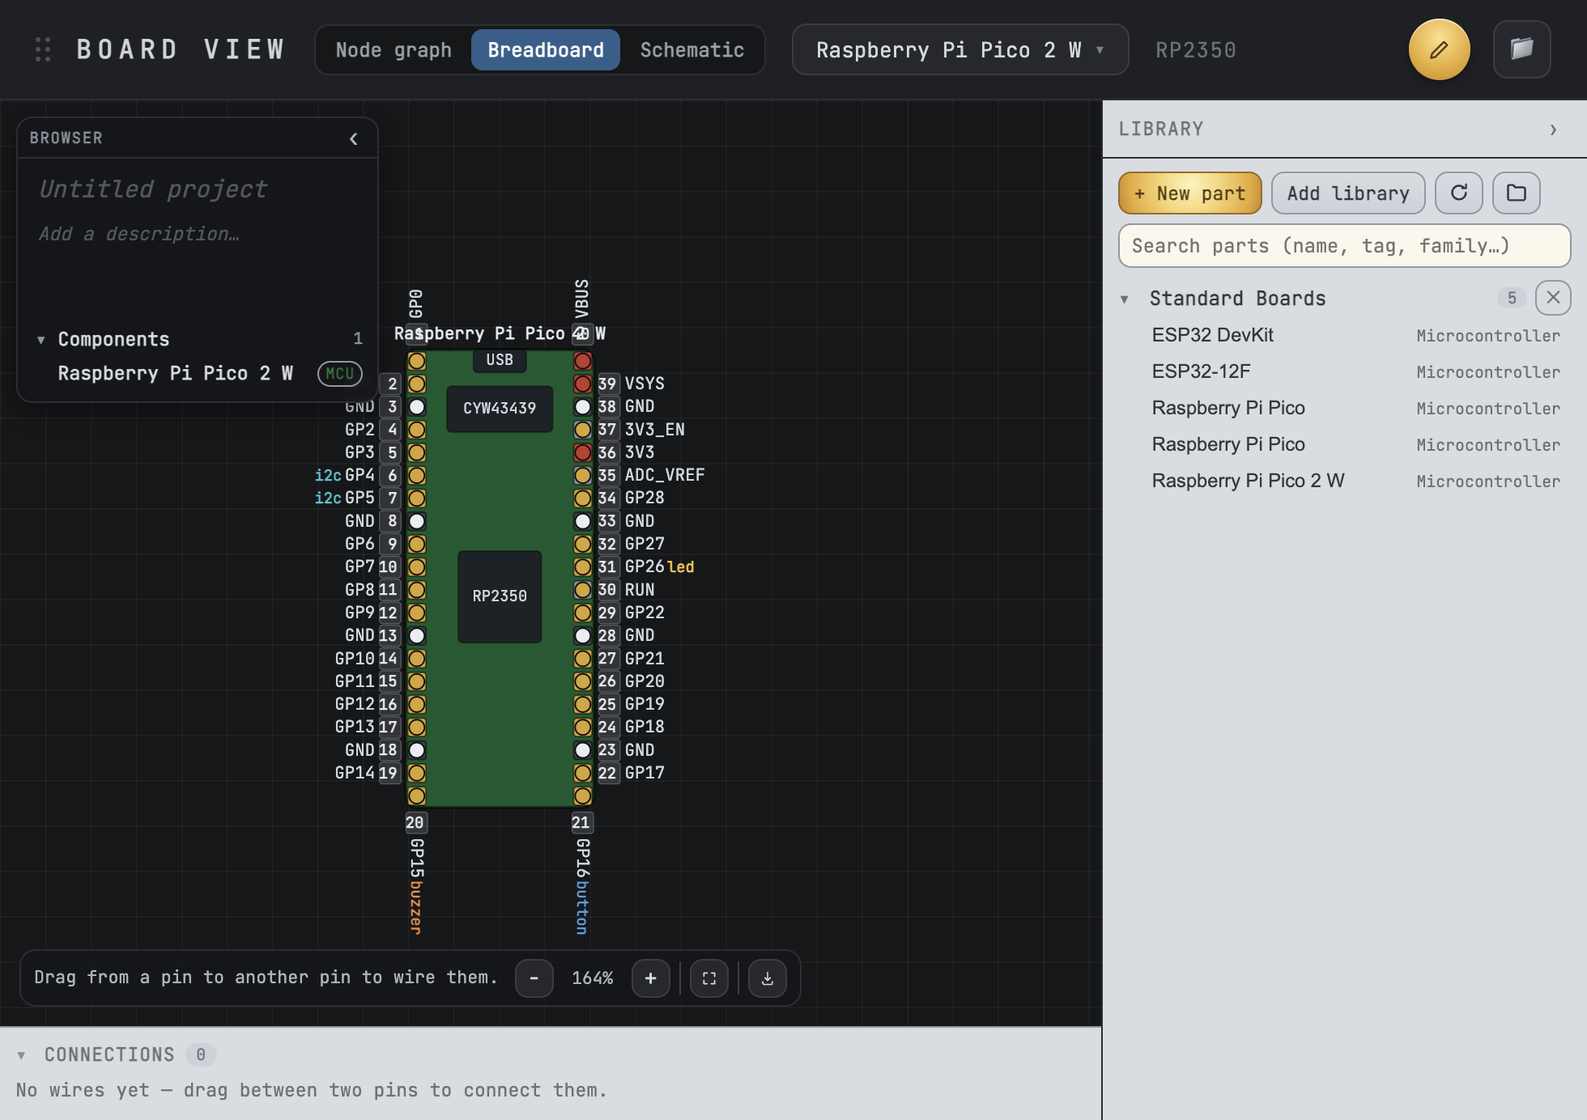
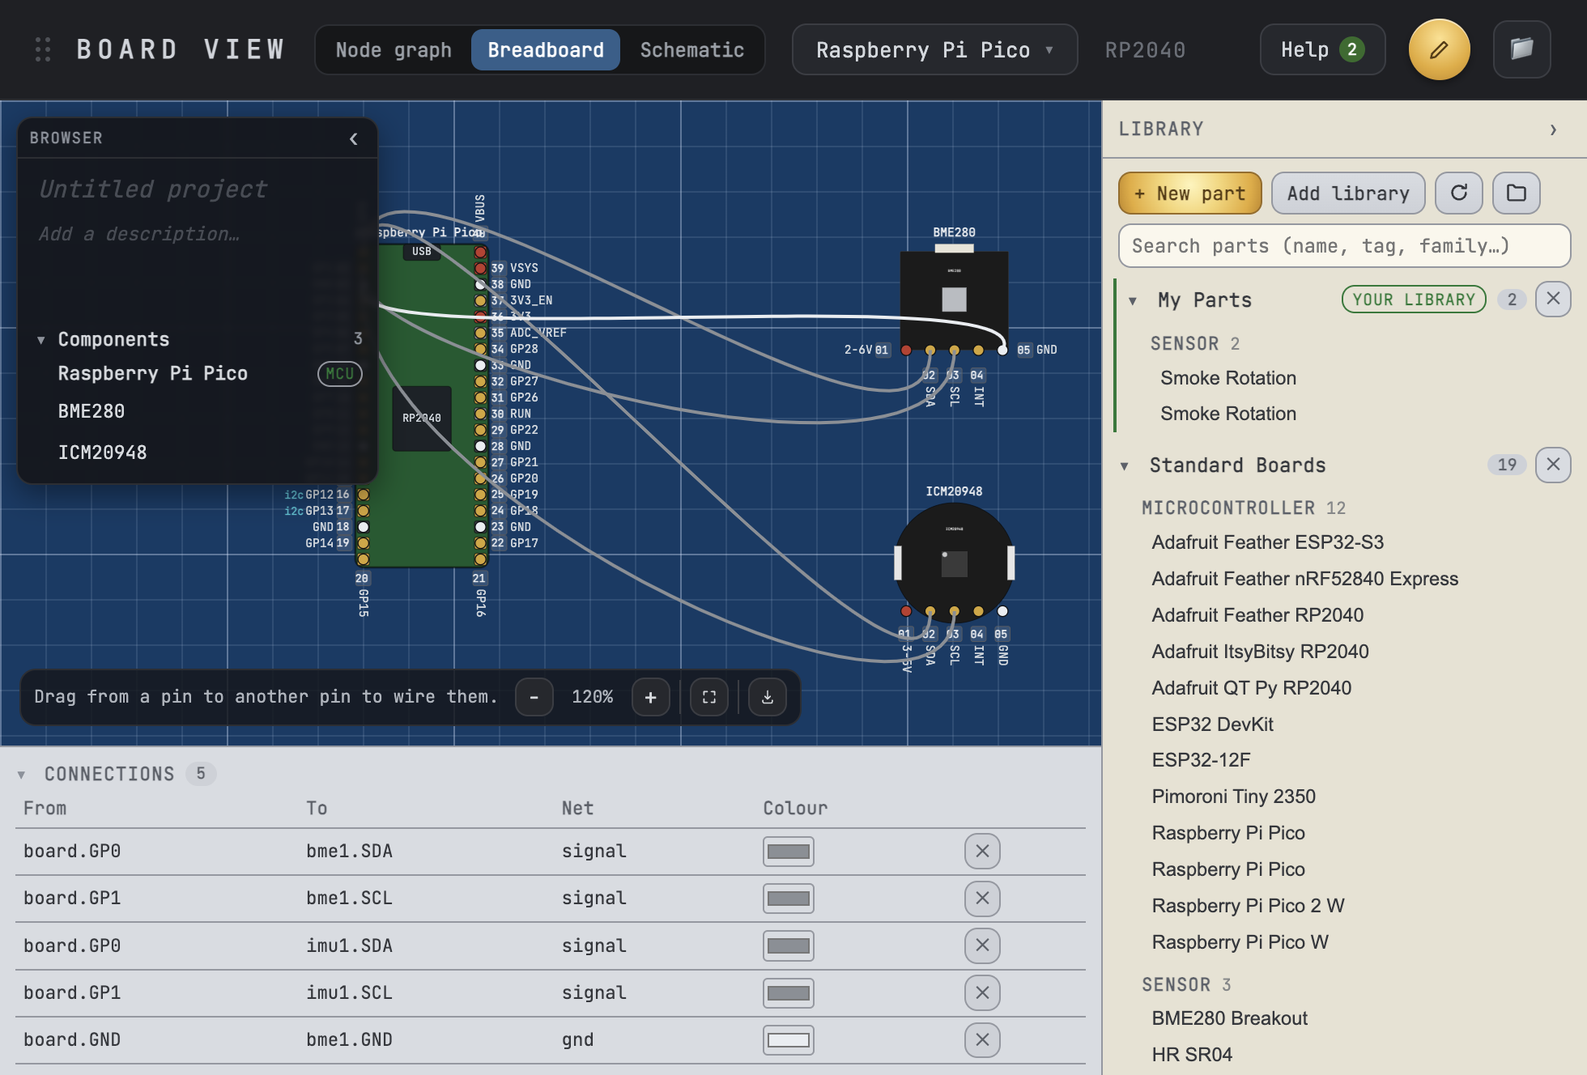
Refresh landing + features for v0.22
Bring snakie.org in line with the latest app:

- New screenshots: hero editor (BME280 + inst.watch program), a blueprint
  Board View with the new BME280/ICM20948 sensor parts wired up, and two
  fresh instrument cards — the antique Barometer and the IMU with its
  magnetometer compass (renamed multimeter.jpg/plotter.jpg → barometer.jpg/
  imu.jpg).
- Instruments section: showcase Oscilloscope + Barometer + IMU/Compass, and
  the watch()-a-sensor auto-detect story; code snippet updated to env()/watch().
- Board View section: drag-to-breadboard, breadboard/schematic/node-graph
  views (dark/light/blueprint), one-click driver install.
- Features page: barometer, IMU compass, interactive+animated I²C scanner,
  auto-detected instruments, pop-out panels, breadboard themes, schematic
  bus stubs, drag-to-breadboard, device file management, context-sensitive
  help, one-click driver install, growing Standard library.
- Version badges → v0.22 / v0.22.0.

diff --git a/index.html b/index.html
@@ -48,7 +48,7 @@ description: "Snakie is a clean, cross-platform editor for writing MicroPython a
     <div style="max-width:1180px; margin:0 auto; padding:0 32px;">
       <div style="display:inline-flex; align-items:center; gap:9px; padding:6px 13px; border-radius:20px; background:linear-gradient(180deg,#fbfbfd,#dfe3ea); border:1px solid #c4c8d1; box-shadow:inset 0 1px 0 #fff,0 1px 2px rgba(0,0,0,.1); font-family:'Space Grotesk',sans-serif; font-size:12px; font-weight:700; letter-spacing:.08em; color:#6c707a;">
         <span style="width:8px; height:8px; border-radius:50%; background:radial-gradient(circle at 30% 30%,#9dffb6,#15a64a); box-shadow:0 0 5px rgba(60,210,110,.8);"></span>
-        MICROPYTHON IDE · v0.18
+        MICROPYTHON IDE · v0.22
       </div>
       <h1 class="hero-h1" style="font-family:'Space Grotesk',sans-serif; font-size:58px; line-height:1.04; font-weight:700; letter-spacing:-.02em; color:#211f1a; margin:26px 0 0; max-width:880px; text-wrap:balance;">
         The MicroPython IDE that looks as good as it works.
@@ -173,11 +173,11 @@ description: "Snakie is a clean, cross-platform editor for writing MicroPython a
         <div>
           <div style="font-family:'Space Grotesk',sans-serif; font-size:12px; font-weight:700; letter-spacing:.18em; text-transform:uppercase; color:#9a948a;">Board View</div>
           <h2 style="font-family:'Space Grotesk',sans-serif; font-size:34px; font-weight:700; letter-spacing:-.015em; color:#211f1a; margin:12px 0 0; line-height:1.1;">It reads your code and draws the board.</h2>
-          <p style="font-size:16px; line-height:1.65; color:#5e584f; margin:18px 0 0;">Every <code style="font-family:'IBM Plex Mono',monospace; font-size:14px; background:#dcd8cf; padding:1px 6px; border-radius:4px; color:#3a3d44;">Pin()</code>, <code style="font-family:'IBM Plex Mono',monospace; font-size:14px; background:#dcd8cf; padding:1px 6px; border-radius:4px; color:#3a3d44;">I2C()</code>, <code style="font-family:'IBM Plex Mono',monospace; font-size:14px; background:#dcd8cf; padding:1px 6px; border-radius:4px; color:#3a3d44;">PWM()</code> and <code style="font-family:'IBM Plex Mono',monospace; font-size:14px; background:#dcd8cf; padding:1px 6px; border-radius:4px; color:#3a3d44;">ADC()</code> in your program is traced to the physical pin it drives, colour-coded by type and listed below the board.</p>
+          <p style="font-size:16px; line-height:1.65; color:#5e584f; margin:18px 0 0;">Every <code style="font-family:'IBM Plex Mono',monospace; font-size:14px; background:#dcd8cf; padding:1px 6px; border-radius:4px; color:#3a3d44;">Pin()</code>, <code style="font-family:'IBM Plex Mono',monospace; font-size:14px; background:#dcd8cf; padding:1px 6px; border-radius:4px; color:#3a3d44;">I2C()</code>, <code style="font-family:'IBM Plex Mono',monospace; font-size:14px; background:#dcd8cf; padding:1px 6px; border-radius:4px; color:#3a3d44;">PWM()</code> and <code style="font-family:'IBM Plex Mono',monospace; font-size:14px; background:#dcd8cf; padding:1px 6px; border-radius:4px; color:#3a3d44;">ADC()</code> in your program is traced to the physical pin it drives, colour-coded by type and listed below the board. Or build it visually: drag parts from the library onto the breadboard and wire them up.</p>
           <ul style="list-style:none; padding:0; margin:24px 0 0; display:flex; flex-direction:column; gap:13px;">
-            <li style="display:flex; gap:11px; align-items:flex-start; font-size:15px; color:#4a4640;"><span style="flex:none; margin-top:1px; width:20px; height:20px; border-radius:50%; background:radial-gradient(circle at 50% 30%,#9ff0a8,#34ad4f); display:flex; align-items:center; justify-content:center; color:#fff;"><svg width="13" height="13"><use href="#ic-check"></use></svg></span>Multiple boards &amp; custom board definitions</li>
-            <li style="display:flex; gap:11px; align-items:flex-start; font-size:15px; color:#4a4640;"><span style="flex:none; margin-top:1px; width:20px; height:20px; border-radius:50%; background:radial-gradient(circle at 50% 30%,#9ff0a8,#34ad4f); display:flex; align-items:center; justify-content:center; color:#fff;"><svg width="13" height="13"><use href="#ic-check"></use></svg></span>A Board Creator for boards Snakie doesn't know yet</li>
-            <li style="display:flex; gap:11px; align-items:flex-start; font-size:15px; color:#4a4640;"><span style="flex:none; margin-top:1px; width:20px; height:20px; border-radius:50%; background:radial-gradient(circle at 50% 30%,#9ff0a8,#34ad4f); display:flex; align-items:center; justify-content:center; color:#fff;"><svg width="13" height="13"><use href="#ic-check"></use></svg></span>Pan, zoom and export the diagram as SVG</li>
+            <li style="display:flex; gap:11px; align-items:flex-start; font-size:15px; color:#4a4640;"><span style="flex:none; margin-top:1px; width:20px; height:20px; border-radius:50%; background:radial-gradient(circle at 50% 30%,#9ff0a8,#34ad4f); display:flex; align-items:center; justify-content:center; color:#fff;"><svg width="13" height="13"><use href="#ic-check"></use></svg></span>Breadboard, schematic &amp; node-graph views — dark, light or blueprint</li>
+            <li style="display:flex; gap:11px; align-items:flex-start; font-size:15px; color:#4a4640;"><span style="flex:none; margin-top:1px; width:20px; height:20px; border-radius:50%; background:radial-gradient(circle at 50% 30%,#9ff0a8,#34ad4f); display:flex; align-items:center; justify-content:center; color:#fff;"><svg width="13" height="13"><use href="#ic-check"></use></svg></span>Drag-and-drop parts, a growing Standard library &amp; a Board Creator</li>
+            <li style="display:flex; gap:11px; align-items:flex-start; font-size:15px; color:#4a4640;"><span style="flex:none; margin-top:1px; width:20px; height:20px; border-radius:50%; background:radial-gradient(circle at 50% 30%,#9ff0a8,#34ad4f); display:flex; align-items:center; justify-content:center; color:#fff;"><svg width="13" height="13"><use href="#ic-check"></use></svg></span>One-click driver install for the parts you place</li>
           </ul>
         </div>
         <div style="border-radius:15px; overflow:hidden; border:1px solid #2a2c31; box-shadow:0 2px 4px rgba(0,0,0,.22),0 40px 80px -22px rgba(20,20,24,.5);">
@@ -196,7 +196,7 @@ description: "Snakie is a clean, cross-platform editor for writing MicroPython a
     <div style="max-width:1180px; margin:0 auto; padding:0 32px;">
       <div style="font-family:'Space Grotesk',sans-serif; font-size:12px; font-weight:700; letter-spacing:.18em; text-transform:uppercase; color:#a9ceb8;">Instruments</div>
       <h2 style="font-family:'Space Grotesk',sans-serif; font-size:36px; font-weight:700; letter-spacing:-.015em; color:#f3efe2; margin:12px 0 0; max-width:680px; line-height:1.1; text-shadow:0 1px 1px rgba(0,0,0,.3);">Turn your program into a bench of instruments.</h2>
-      <p style="font-size:16.5px; line-height:1.6; color:#cfe0d4; max-width:640px; margin:16px 0 0;">A handful of calls in your MicroPython code stream live values straight to Snakie's on-screen oscilloscope, multimeter and plotter — no probes, no extra hardware.</p>
+      <p style="font-size:16.5px; line-height:1.6; color:#cfe0d4; max-width:640px; margin:16px 0 0;">A handful of calls in your MicroPython code stream live values straight to a whole bench of on-screen instruments — an oscilloscope, an antique barometer, a 3-D IMU with compass, plus a multimeter, plotter and more — no probes, no extra hardware. Even better, <code style="font-family:'IBM Plex Mono',monospace; font-size:13px; color:#b9ddc4;">watch()</code> a sensor object and the right instrument lights up by itself.</p>
 
       <div class="grid-3" style="display:grid; grid-template-columns:repeat(3,1fr); gap:22px; margin-top:46px;">
         <div>
@@ -210,26 +210,26 @@ description: "Snakie is a clean, cross-platform editor for writing MicroPython a
         <div>
           <div style="border-radius:13px; overflow:hidden; border:1px solid #14271d; box-shadow:0 18px 36px -16px rgba(0,0,0,.6);">
             <div style="height:32px; display:flex; align-items:center; gap:7px; padding:0 12px; background:linear-gradient(180deg,#3a3d43,#222429);"><span style="width:9px; height:9px; border-radius:50%; background:#e0463a;"></span><span style="width:9px; height:9px; border-radius:50%; background:#e6ab30;"></span><span style="width:9px; height:9px; border-radius:50%; background:#34ad4f;"></span></div>
-            <img src="{{ '/assets/img/multimeter.jpg' | relative_url }}" alt="Snakie multimeter" style="display:block; width:100%; height:auto;">
+            <img src="{{ '/assets/img/barometer.jpg' | relative_url }}" alt="Snakie barometer showing temperature, pressure and humidity" style="display:block; width:100%; height:auto;">
           </div>
-          <div style="font-family:'Space Grotesk',sans-serif; font-size:16px; font-weight:700; color:#f3efe2; margin:16px 0 0;">Multimeter</div>
-          <p style="font-size:13.5px; line-height:1.55; color:#bcd2c3; margin:5px 0 0;">A handheld DMM reading any ADC pin as a live value, with bargraph and min / max / average.</p>
+          <div style="font-family:'Space Grotesk',sans-serif; font-size:16px; font-weight:700; color:#f3efe2; margin:16px 0 0;">Barometer</div>
+          <p style="font-size:13.5px; line-height:1.55; color:#bcd2c3; margin:5px 0 0;">An antique aneroid dial reading temperature, pressure and humidity from a BME280 — with the classic RAIN · CHANGE · FAIR legend.</p>
         </div>
         <div>
           <div style="border-radius:13px; overflow:hidden; border:1px solid #14271d; box-shadow:0 18px 36px -16px rgba(0,0,0,.6);">
             <div style="height:32px; display:flex; align-items:center; gap:7px; padding:0 12px; background:linear-gradient(180deg,#3a3d43,#222429);"><span style="width:9px; height:9px; border-radius:50%; background:#e0463a;"></span><span style="width:9px; height:9px; border-radius:50%; background:#e6ab30;"></span><span style="width:9px; height:9px; border-radius:50%; background:#34ad4f;"></span></div>
-            <img src="{{ '/assets/img/plotter.jpg' | relative_url }}" alt="Snakie plotter" style="display:block; width:100%; height:auto;">
+            <img src="{{ '/assets/img/imu.jpg' | relative_url }}" alt="Snakie IMU attitude view with a compass heading" style="display:block; width:100%; height:auto;">
           </div>
-          <div style="font-family:'Space Grotesk',sans-serif; font-size:16px; font-weight:700; color:#f3efe2; margin:16px 0 0;">Plotter</div>
-          <p style="font-size:13.5px; line-height:1.55; color:#bcd2c3; margin:5px 0 0;">A strip-chart recorder that graphs any values you <code style="font-family:'IBM Plex Mono',monospace; font-size:12.5px; color:#b9ddc4;">print()</code> over time, with auto-scroll.</p>
+          <div style="font-family:'Space Grotesk',sans-serif; font-size:16px; font-weight:700; color:#f3efe2; margin:16px 0 0;">IMU &amp; Compass</div>
+          <p style="font-size:13.5px; line-height:1.55; color:#bcd2c3; margin:5px 0 0;">A live 3-D attitude view that tilts with your board, plus a magnetometer compass — roll, pitch, yaw and heading from a 9-DoF IMU.</p>
         </div>
       </div>
 
       <div style="margin-top:42px; max-width:560px; border-radius:12px; background:#080a07; border:1px solid #000; box-shadow:inset 0 3px 12px rgba(0,0,0,.7),0 1px 0 rgba(255,255,255,.12); padding:20px 22px; font-family:'IBM Plex Mono',monospace; font-size:14px; line-height:1.85; color:#5dff8a;">
         <div style="color:#6f8f78;"># stream live values to Snakie's instruments</div>
-        <div><span style="color:#5dff8a;">scope</span>(adc.read_u16())<span style="color:#6f8f78;">   # → Oscilloscope</span></div>
-        <div><span style="color:#5dff8a;">meter</span>(voltage)<span style="color:#6f8f78;">         # → Multimeter</span></div>
-        <div><span style="color:#5dff8a;">plot</span>(temp, light)<span style="color:#6f8f78;">      # → Plotter</span></div>
+        <div><span style="color:#5dff8a;">scope</span>(adc.read_u16())<span style="color:#6f8f78;">      # → Oscilloscope</span></div>
+        <div><span style="color:#5dff8a;">env</span>(temp, pressure, humidity)<span style="color:#6f8f78;"> # → Barometer</span></div>
+        <div><span style="color:#5dff8a;">watch</span>(imu=sensor)<span style="color:#6f8f78;">          # → IMU (auto-detected)</span></div>
       </div>
       <div style="margin-top:14px; font-size:13.5px; color:#a9ceb8;">The telemetry library installs to your board in one click.</div>
     </div>
@@ -362,7 +362,7 @@ description: "Snakie is a clean, cross-platform editor for writing MicroPython a
       </div>
     </div>
     <div style="max-width:1180px; margin:38px auto 0; padding:18px 32px 0; border-top:1px solid rgba(255,255,255,.12); display:flex; justify-content:space-between; flex-wrap:wrap; gap:10px; font-size:12.5px; color:#9cbcaa; font-family:'IBM Plex Mono',monospace;">
-      <span>Snakie · free &amp; open source · v0.14.0</span>
+      <span>Snakie · free &amp; open source · v0.22.0</span>
       <span>Not affiliated with the MicroPython or Raspberry Pi projects.</span>
     </div>
   </footer>

diff --git a/features.html b/features.html
@@ -66,8 +66,8 @@ permalink: /features/
         <div class="ft-card"><h3>Offline simulated device</h3><p>A real MicroPython interpreter compiled to WebAssembly — learn, prototype and demo with no hardware plugged in. The REPL and Run button actually execute Python.</p></div>
         <div class="ft-card"><h3>Node-graph Board View</h3><p>Snakie reads your code and draws the board, wiring every <code>Pin()</code>, <code>I2C()</code>, <code>PWM()</code> and <code>ADC()</code> to the physical pin it drives — no guesswork.</p></div>
         <div class="ft-card"><h3>Parts Library &amp; Part Editor</h3><p>A portable, community-authored parts library with a full visual editor for custom boards and components — pins, pads, shapes, text and images.</p></div>
-        <div class="ft-card"><h3>On-screen instruments</h3><p>A skeuomorphic oscilloscope, multimeter and plotter fed live and non-invasively by a tiny telemetry library — they never interrupt your running program.</p></div>
-        <div class="ft-card"><h3>Robotics instrument suite</h3><p>A 3D IMU viewer, distance radar, and button / LED / encoder / display panels — plus gamepad teleop for driving robots live.</p></div>
+        <div class="ft-card"><h3>On-screen instruments</h3><p>A skeuomorphic bench — oscilloscope, antique barometer, multimeter, plotter and more — fed live and non-invasively by a tiny telemetry library that never interrupts your running program. <code>watch()</code> a sensor and the right instrument opens itself.</p></div>
+        <div class="ft-card"><h3>Robotics instrument suite</h3><p>A 3D IMU viewer with a magnetometer compass, distance radar, and button / LED / encoder / display panels — plus gamepad teleop for driving robots live.</p></div>
         <div class="ft-card"><h3>Breadboard &amp; schematic views</h3><p>Two fully-wired circuit representations with life-like parts, auto-routed noodle wires and real pinouts.</p></div>
         <div class="ft-card"><h3>File syncing with the device</h3><p>Tick a file to keep it in sync with the connected board — Snakie pushes it on every save, so what's on the board always matches what you're editing.</p></div>
         <div class="ft-card"><h3>SAM text-to-speech</h3><p>Give your robot a voice from a single GPIO pin with the built-in SAM speech instrument — no complex audio libraries.</p></div>
@@ -130,12 +130,13 @@ permalink: /features/
       <div class="ft-theme">Editor &amp; files</div>
       <ul class="ft-list">
         <li><span class="dot"></span><span><b>Python code editor</b> — highlighting, indent guides and code folding.</span></li>
-        <li><span class="dot"></span><span><b>Local &amp; device file browsers</b> — create, rename, delete and organise files on both, Thonny-style.</span></li>
+        <li><span class="dot"></span><span><b>Device file management</b> — multi-select, drag files into folders, and delete right on the connected board.</span></li>
+        <li><span class="dot"></span><span><b>Local file browser</b> — create, rename, delete and organise files, Thonny-style.</span></li>
         <li><span class="dot"></span><span><b>Code outline</b> — navigate functions, classes and definitions.</span></li>
         <li><span class="dot"></span><span><b>Variables inspector</b> — watch locals during REPL sessions.</span></li>
         <li><span class="dot"></span><span><b>Code linting</b> — ruff (or pyflakes) with quick-fixes.</span></li>
         <li><span class="dot"></span><span><b>Problems panel</b> — one place for lint, syntax and config errors.</span></li>
-        <li><span class="dot"></span><span><b>MicroPython help</b> — built-in standard-library reference.</span></li>
+        <li><span class="dot"></span><span><b>Context-sensitive help</b> — right-click any keyword, type, built-in or library part for the reference article.</span></li>
       </ul>
 
       <div class="ft-theme">Device, REPL &amp; firmware</div>
@@ -154,16 +155,20 @@ permalink: /features/
       <div class="ft-theme">Instruments &amp; panels</div>
       <ul class="ft-list">
         <li><span class="dot"></span><span><b>Oscilloscope</b> — live PWM waveform with frequency &amp; duty.</span></li>
-        <li><span class="dot"></span><span><b>Multimeter</b> — voltage with min/max/avg on a 7-segment display.</span></li>
+        <li><span class="dot"></span><span><b>Multimeter &amp; potentiometer</b> — voltage min/max/avg, and a vintage ammeter dial.</span></li>
+        <li><span class="dot"></span><span><b>Barometer</b> — antique aneroid dial for temperature, pressure &amp; humidity (BME280).</span></li>
         <li><span class="dot"></span><span><b>Plotter</b> — multi-series graphing with auto-scaling and legend.</span></li>
         <li><span class="dot"></span><span><b>Range / radar</b> — distance gauge and polar sweep.</span></li>
-        <li><span class="dot"></span><span><b>IMU 3D viewer</b> — roll/pitch/yaw with a horizon.</span></li>
+        <li><span class="dot"></span><span><b>IMU 3D viewer &amp; compass</b> — roll/pitch/yaw with a horizon, plus a magnetometer heading.</span></li>
+        <li><span class="dot"></span><span><b>Auto-detected instruments</b> — <code>watch()</code> a sensor object and the right panel opens by itself.</span></li>
         <li><span class="dot"></span><span><b>Button &amp; LED panels</b> — monitor inputs, drive digital/PWM/RGB outputs.</span></li>
         <li><span class="dot"></span><span><b>NeoPixel control</b> — colour-pick WS2812 strips.</span></li>
         <li><span class="dot"></span><span><b>Encoder panel</b> — position dial, RPM and push-switch.</span></li>
         <li><span class="dot"></span><span><b>I²C display mirror</b> — view SSD1306/SH1106/HD44780 from the IDE.</span></li>
-        <li><span class="dot"></span><span><b>I²C, Wi-Fi &amp; Bluetooth scanners</b> — address grids and live device discovery.</span></li>
+        <li><span class="dot"></span><span><b>Interactive I²C scanner</b> — an animated sweep, then click a found address to identify it and add the matching part.</span></li>
+        <li><span class="dot"></span><span><b>Wi-Fi &amp; Bluetooth scanners</b> — live network and device discovery.</span></li>
         <li><span class="dot"></span><span><b>Buzzer &amp; melody sequencer</b> — RTTTL playback and a drag-to-compose staff.</span></li>
+        <li><span class="dot"></span><span><b>Pop-out instruments</b> — undock any panel into its own resizable OS window.</span></li>
       </ul>
 
       <div class="ft-theme">Board View, parts &amp; wiring</div>
@@ -171,15 +176,17 @@ permalink: /features/
         <li><span class="dot"></span><span><b>Mini &amp; main Board View</b> — just-your-pins preview and the full pinout.</span></li>
         <li><span class="dot"></span><span><b>Many built-in boards</b> — Pico, Pico 2 W, ESP32, Pimoroni Pico Plus 2, Tiny 2040 &amp; Tiny 2350.</span></li>
         <li><span class="dot"></span><span><b>Custom board definitions</b> — add your own boards.</span></li>
-        <li><span class="dot"></span><span><b>Breadboard &amp; schematic views</b> — life-like wiring and auto-routed schematics.</span></li>
+        <li><span class="dot"></span><span><b>Breadboard, schematic &amp; node-graph views</b> — life-like wiring, named I²C/SPI bus stubs, and auto-routed diagrams.</span></li>
+        <li><span class="dot"></span><span><b>Breadboard themes</b> — dark, light or a classic blueprint backdrop.</span></li>
         <li><span class="dot"></span><span><b>Live pin values</b> — real GPIO state, PWM duty and activity on the board.</span></li>
-        <li><span class="dot"></span><span><b>Part placement, rotation, rename &amp; delete</b> — drag from the library and arrange.</span></li>
+        <li><span class="dot"></span><span><b>Drag parts onto the breadboard</b> — pull from the library straight to where you want them.</span></li>
+        <li><span class="dot"></span><span><b>Place, rotate, rename &amp; per-part help</b> — arrange parts, with a Help button for each.</span></li>
         <li><span class="dot"></span><span><b>Wire creation &amp; auto-routing</b> — drag pin-to-pin; wires route and colour-code themselves.</span></li>
         <li><span class="dot"></span><span><b>Connections table</b> — edit every net below the canvas.</span></li>
         <li><span class="dot"></span><span><b>2.54&nbsp;mm grid snap</b> — precise placement with guides.</span></li>
         <li><span class="dot"></span><span><b>Castellation &amp; pin capabilities</b> — edge half-holes and PWM/ADC/I²C/SPI/UART tagging.</span></li>
-        <li><span class="dot"></span><span><b>Standard library with versioning</b> — bundled parts with SemVer and update checks.</span></li>
-        <li><span class="dot"></span><span><b>Driver auto-install</b> — required drivers land on the board when you place a part.</span></li>
+        <li><span class="dot"></span><span><b>Growing Standard library</b> — Pico family, Adafruit Feathers, BME280, ICM20948, HC-SR04, motors &amp; more, with SemVer update checks.</span></li>
+        <li><span class="dot"></span><span><b>One-click driver install</b> — required drivers copy to the board when you place a part, or from the missing-library banner.</span></li>
       </ul>
 
       <div class="ft-theme">Project, export &amp; version control</div>
